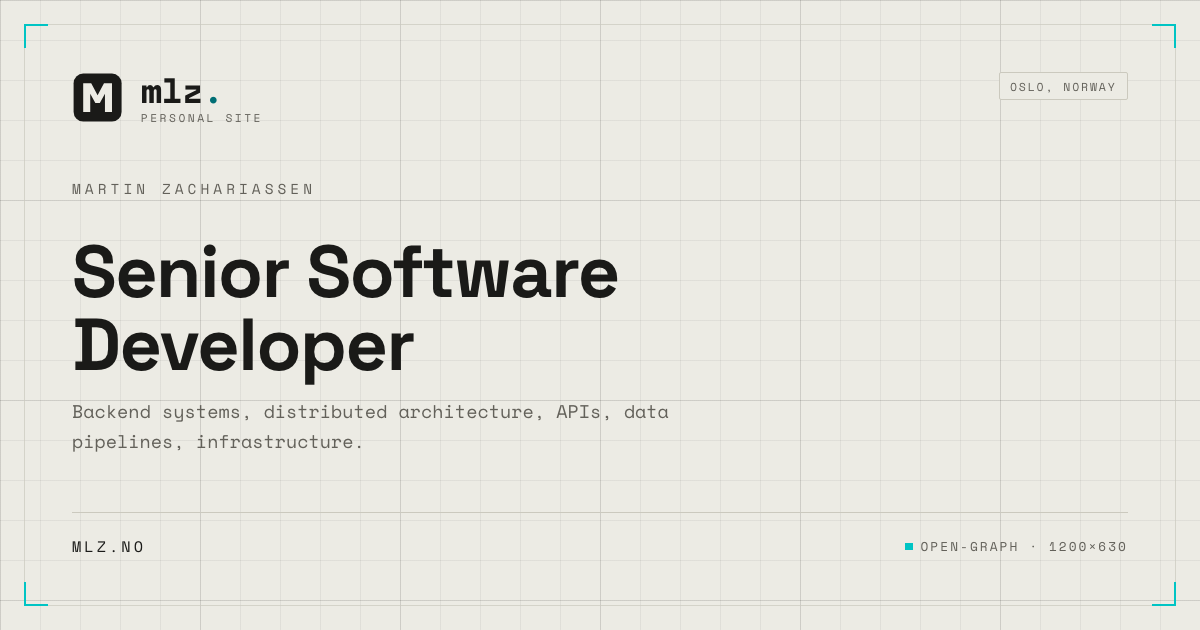
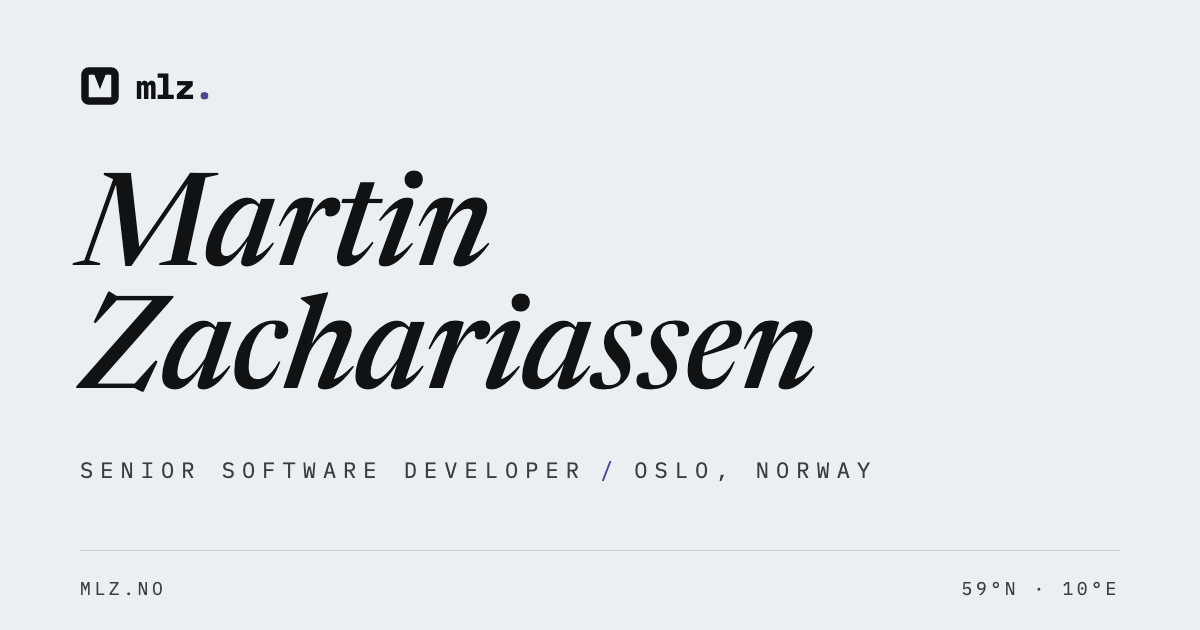
feat: regenerate OG image to match current design (#49)
The social card still showed an earlier design: teal accent, warm beige,
different fonts, and a leftover "OPEN-GRAPH · 1200×630" label. It is now
rendered from tools/og/og.html with the site's own fonts and light-theme
tokens, so it can be regenerated when the design changes (see README).

diff --git a/tools/og/og.html b/tools/og/og.html
@@ -1,0 +1,150 @@
+<!doctype html>
+<!-- Source for public/assets/social/og.png (1200×630). Not deployed — it
+     lives outside public/. Uses the site's own fonts and light-theme
+     colours (public/css/tokens.css), so regenerate it when those change.
+     See README → "Social card". -->
+<html lang="en">
+  <head>
+    <meta charset="UTF-8" />
+    <title>mlz.no social card</title>
+    <style>
+      @font-face {
+        font-family: "IBM Plex Mono";
+        font-weight: 400;
+        src: url("/public/assets/fonts/ibm-plex-mono-400.woff2") format("woff2");
+      }
+      @font-face {
+        font-family: "IBM Plex Mono";
+        font-weight: 700;
+        src: url("/public/assets/fonts/ibm-plex-mono-700.woff2") format("woff2");
+      }
+      @font-face {
+        font-family: "Newsreader";
+        font-style: italic;
+        font-weight: 200 800;
+        src: url("/public/assets/fonts/newsreader-italic-variable.woff2")
+          format("woff2");
+      }
+
+      :root {
+        --bg: oklch(0.95 0.006 250);
+        --fg: oklch(0.18 0.006 250);
+        --fg-secondary: oklch(0.36 0.006 250);
+        --border: oklch(0.85 0.008 250);
+        --accent-deep: oklch(0.44 0.12 285);
+        --mono: "IBM Plex Mono", monospace;
+      }
+
+      * {
+        box-sizing: border-box;
+      }
+
+      html,
+      body {
+        margin: 0;
+        width: 1200px;
+        height: 630px;
+        overflow: hidden;
+        background: var(--bg);
+        color: var(--fg);
+        font-family: var(--mono);
+      }
+
+      .card {
+        display: flex;
+        flex-direction: column;
+        width: 100%;
+        height: 100%;
+        padding: 64px 80px 0;
+      }
+
+      .brand {
+        display: flex;
+        align-items: center;
+        gap: 16px;
+      }
+
+      .brand svg {
+        width: 40px;
+        height: 40px;
+      }
+
+      .brand-word {
+        font-weight: 700;
+        font-size: 34px;
+        letter-spacing: -0.03em;
+      }
+
+      .accent {
+        color: var(--accent-deep);
+      }
+
+      main {
+        flex: 1;
+        display: flex;
+        flex-direction: column;
+        justify-content: center;
+        gap: 36px;
+      }
+
+      h1 {
+        margin: 0;
+        font-family: "Newsreader", serif;
+        font-style: italic;
+        font-weight: 500;
+        font-variation-settings: "opsz" 72;
+        font-size: 128px;
+        line-height: 0.96;
+      }
+
+      .eyebrow {
+        margin: 0;
+        font-size: 22px;
+        letter-spacing: 0.32em;
+        text-transform: uppercase;
+        color: var(--fg-secondary);
+      }
+
+      .eyebrow .accent {
+        margin-inline: 14px;
+      }
+
+      footer {
+        display: flex;
+        justify-content: space-between;
+        padding: 26px 0 30px;
+        border-top: 1px solid var(--border);
+        font-size: 18px;
+        letter-spacing: 0.2em;
+        text-transform: uppercase;
+        color: var(--fg-secondary);
+      }
+    </style>
+  </head>
+  <body>
+    <div class="card">
+      <header class="brand">
+        <svg viewBox="0 0 32 32" aria-hidden="true">
+          <rect x="1" y="1" width="30" height="30" rx="6" fill="currentColor" />
+          <polygon
+            points="7,25 7,7 11.5,7 16,18.5 20.5,7 25,7 25,25"
+            fill="var(--bg)"
+          />
+        </svg>
+        <span class="brand-word">mlz<span class="accent">.</span></span>
+      </header>
+
+      <main>
+        <h1>Martin<br />Zachariassen</h1>
+        <p class="eyebrow">
+          Senior Software Developer<span class="accent">/</span>Oslo, Norway
+        </p>
+      </main>
+
+      <footer>
+        <span>mlz.no</span>
+        <span>59°N · 10°E</span>
+      </footer>
+    </div>
+  </body>
+</html>

diff --git a/README.md b/README.md
@@ -53,6 +53,24 @@ Deploys (`.github/workflows/deploy.yml`) run on every push to `main`,
 authenticating to Google Cloud via Workload Identity Federation — no
 long-lived secrets stored in the repo.
 
+## Social card
+
+`public/assets/social/og.png` (the 1200×630 Open Graph image) is rendered
+from [`tools/og/og.html`](tools/og/og.html), which uses the site's own fonts
+and light-theme colours. Regenerate it whenever those change:
+
+```sh
+python3 -m http.server 8765 --bind 127.0.0.1 &   # serve the repo root
+"/Applications/Google Chrome.app/Contents/MacOS/Google Chrome" --headless \
+  --hide-scrollbars --window-size=1200,630 --force-device-scale-factor=1 \
+  --virtual-time-budget=4000 --screenshot=public/assets/social/og.png \
+  http://127.0.0.1:8765/tools/og/og.html
+kill %1
+```
+
+LinkedIn and others cache the card for days. Use LinkedIn's Post Inspector
+to make them fetch the new one.
+
 ## Contributing
 
 This is a personal site, not a project soliciting new features — but bug
